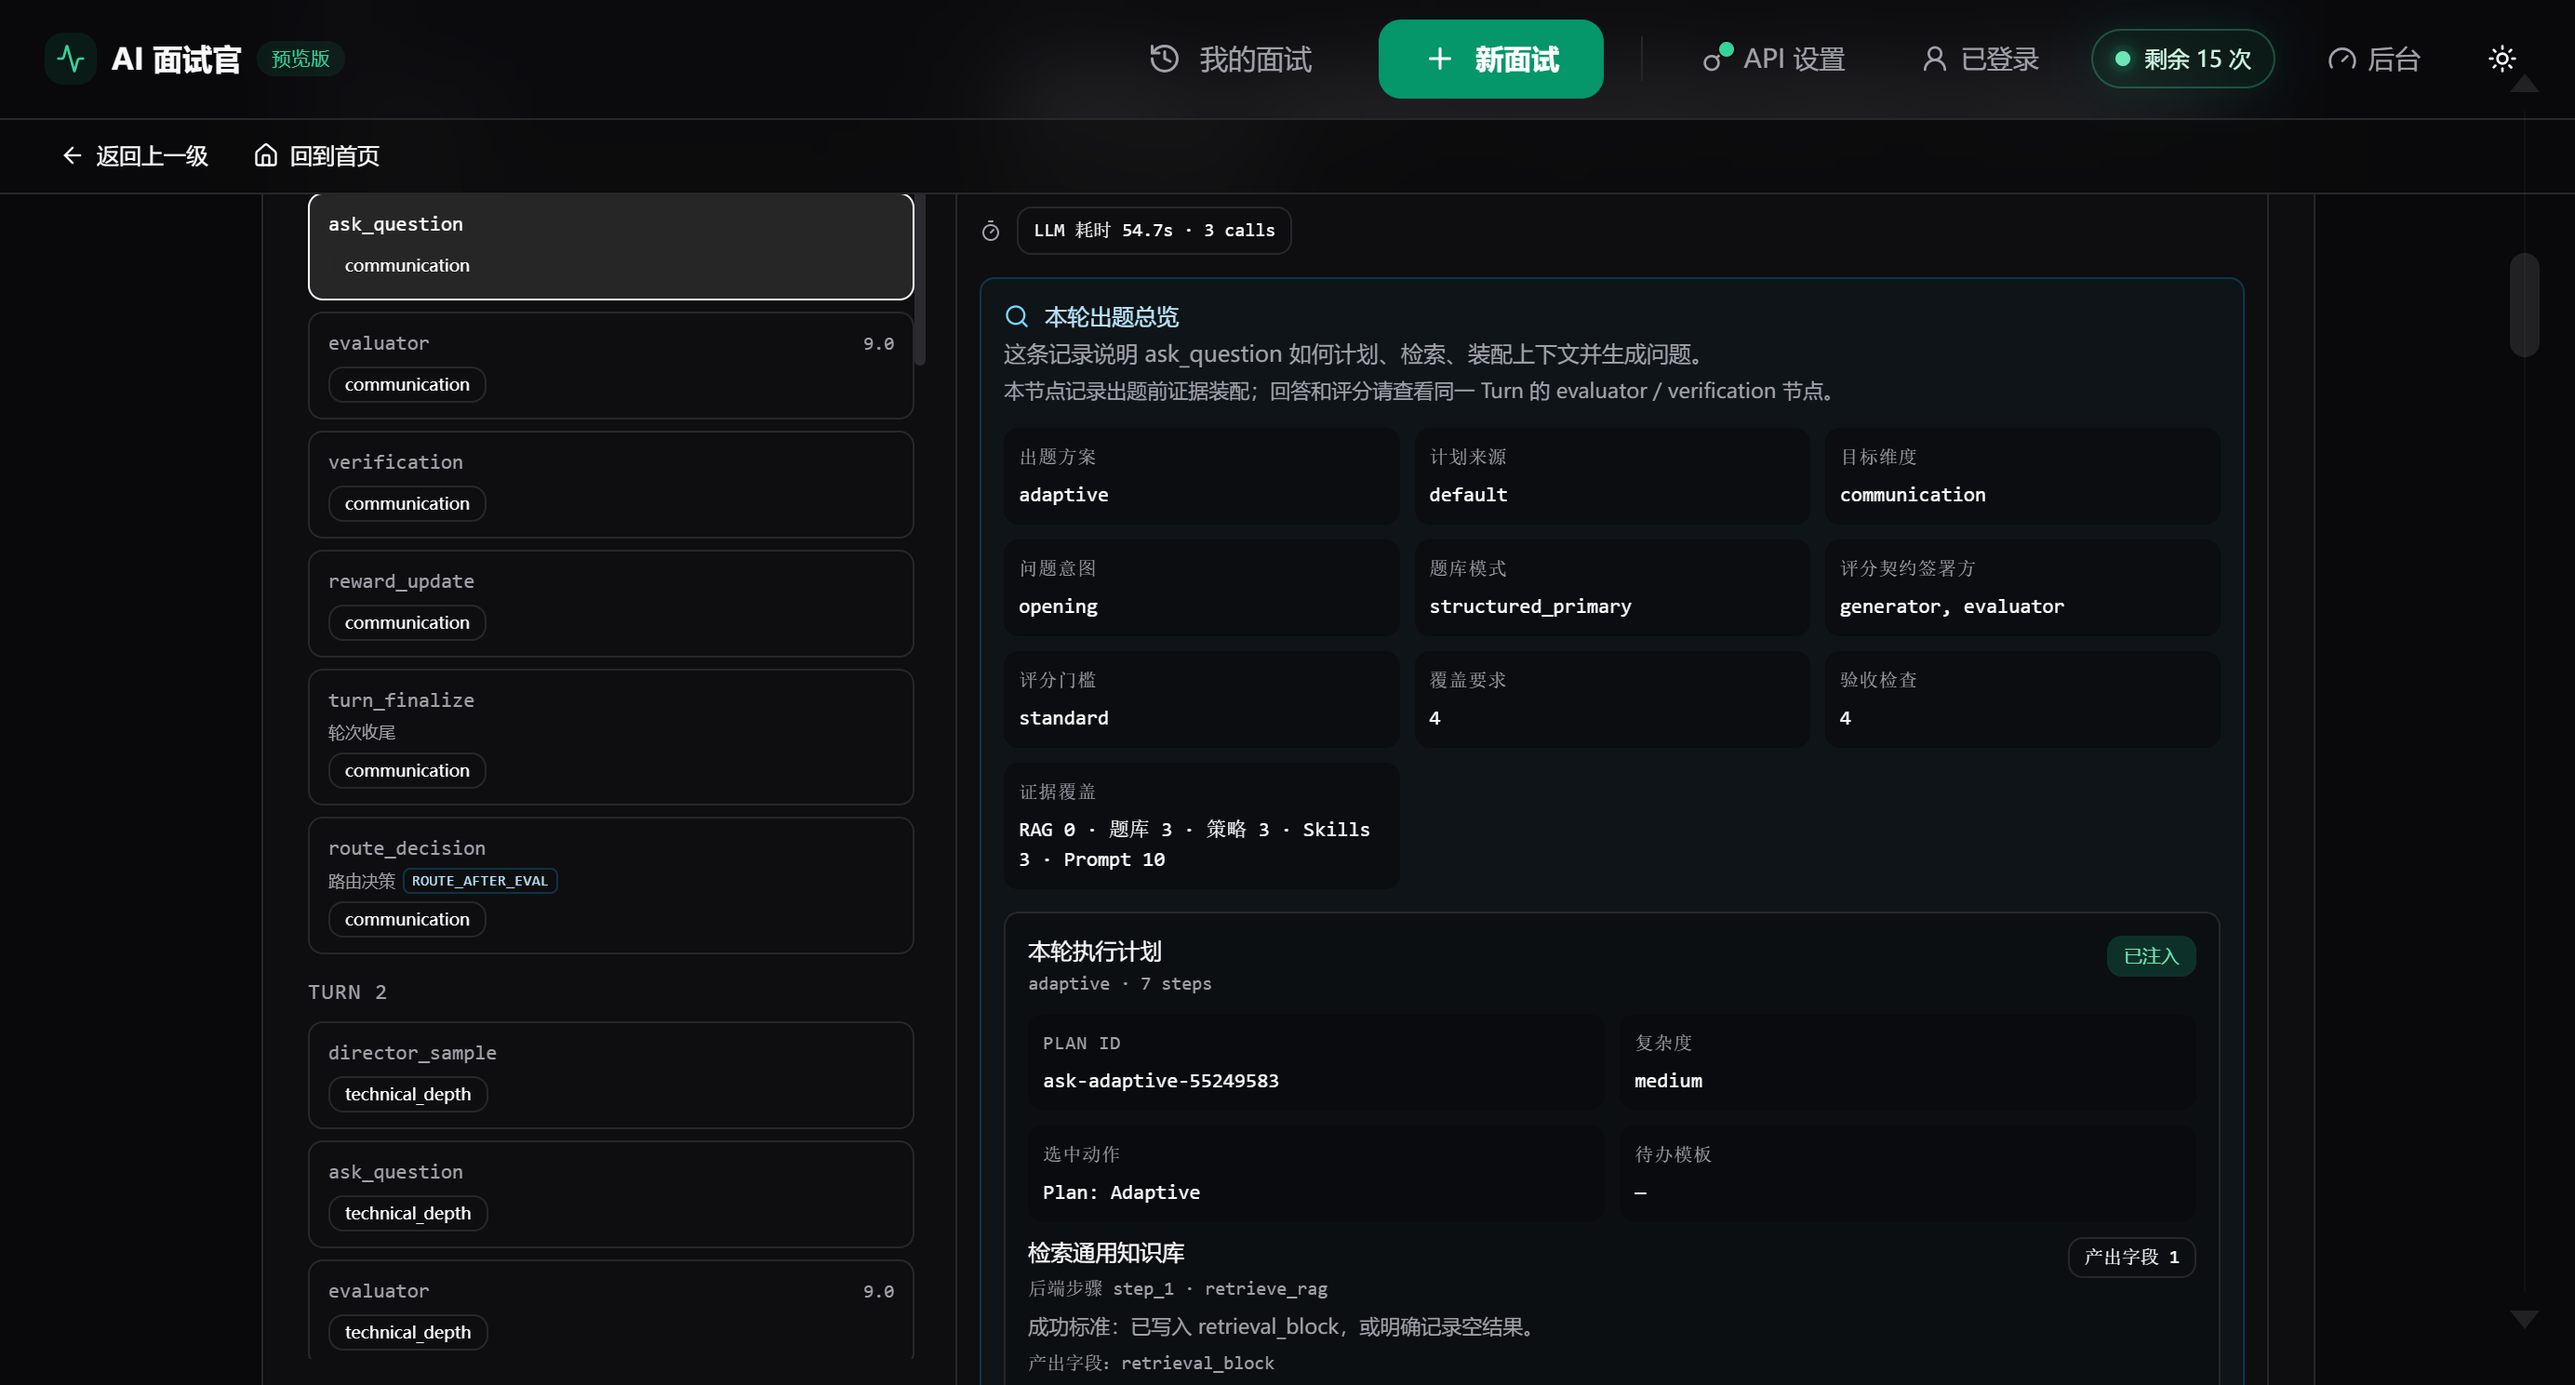
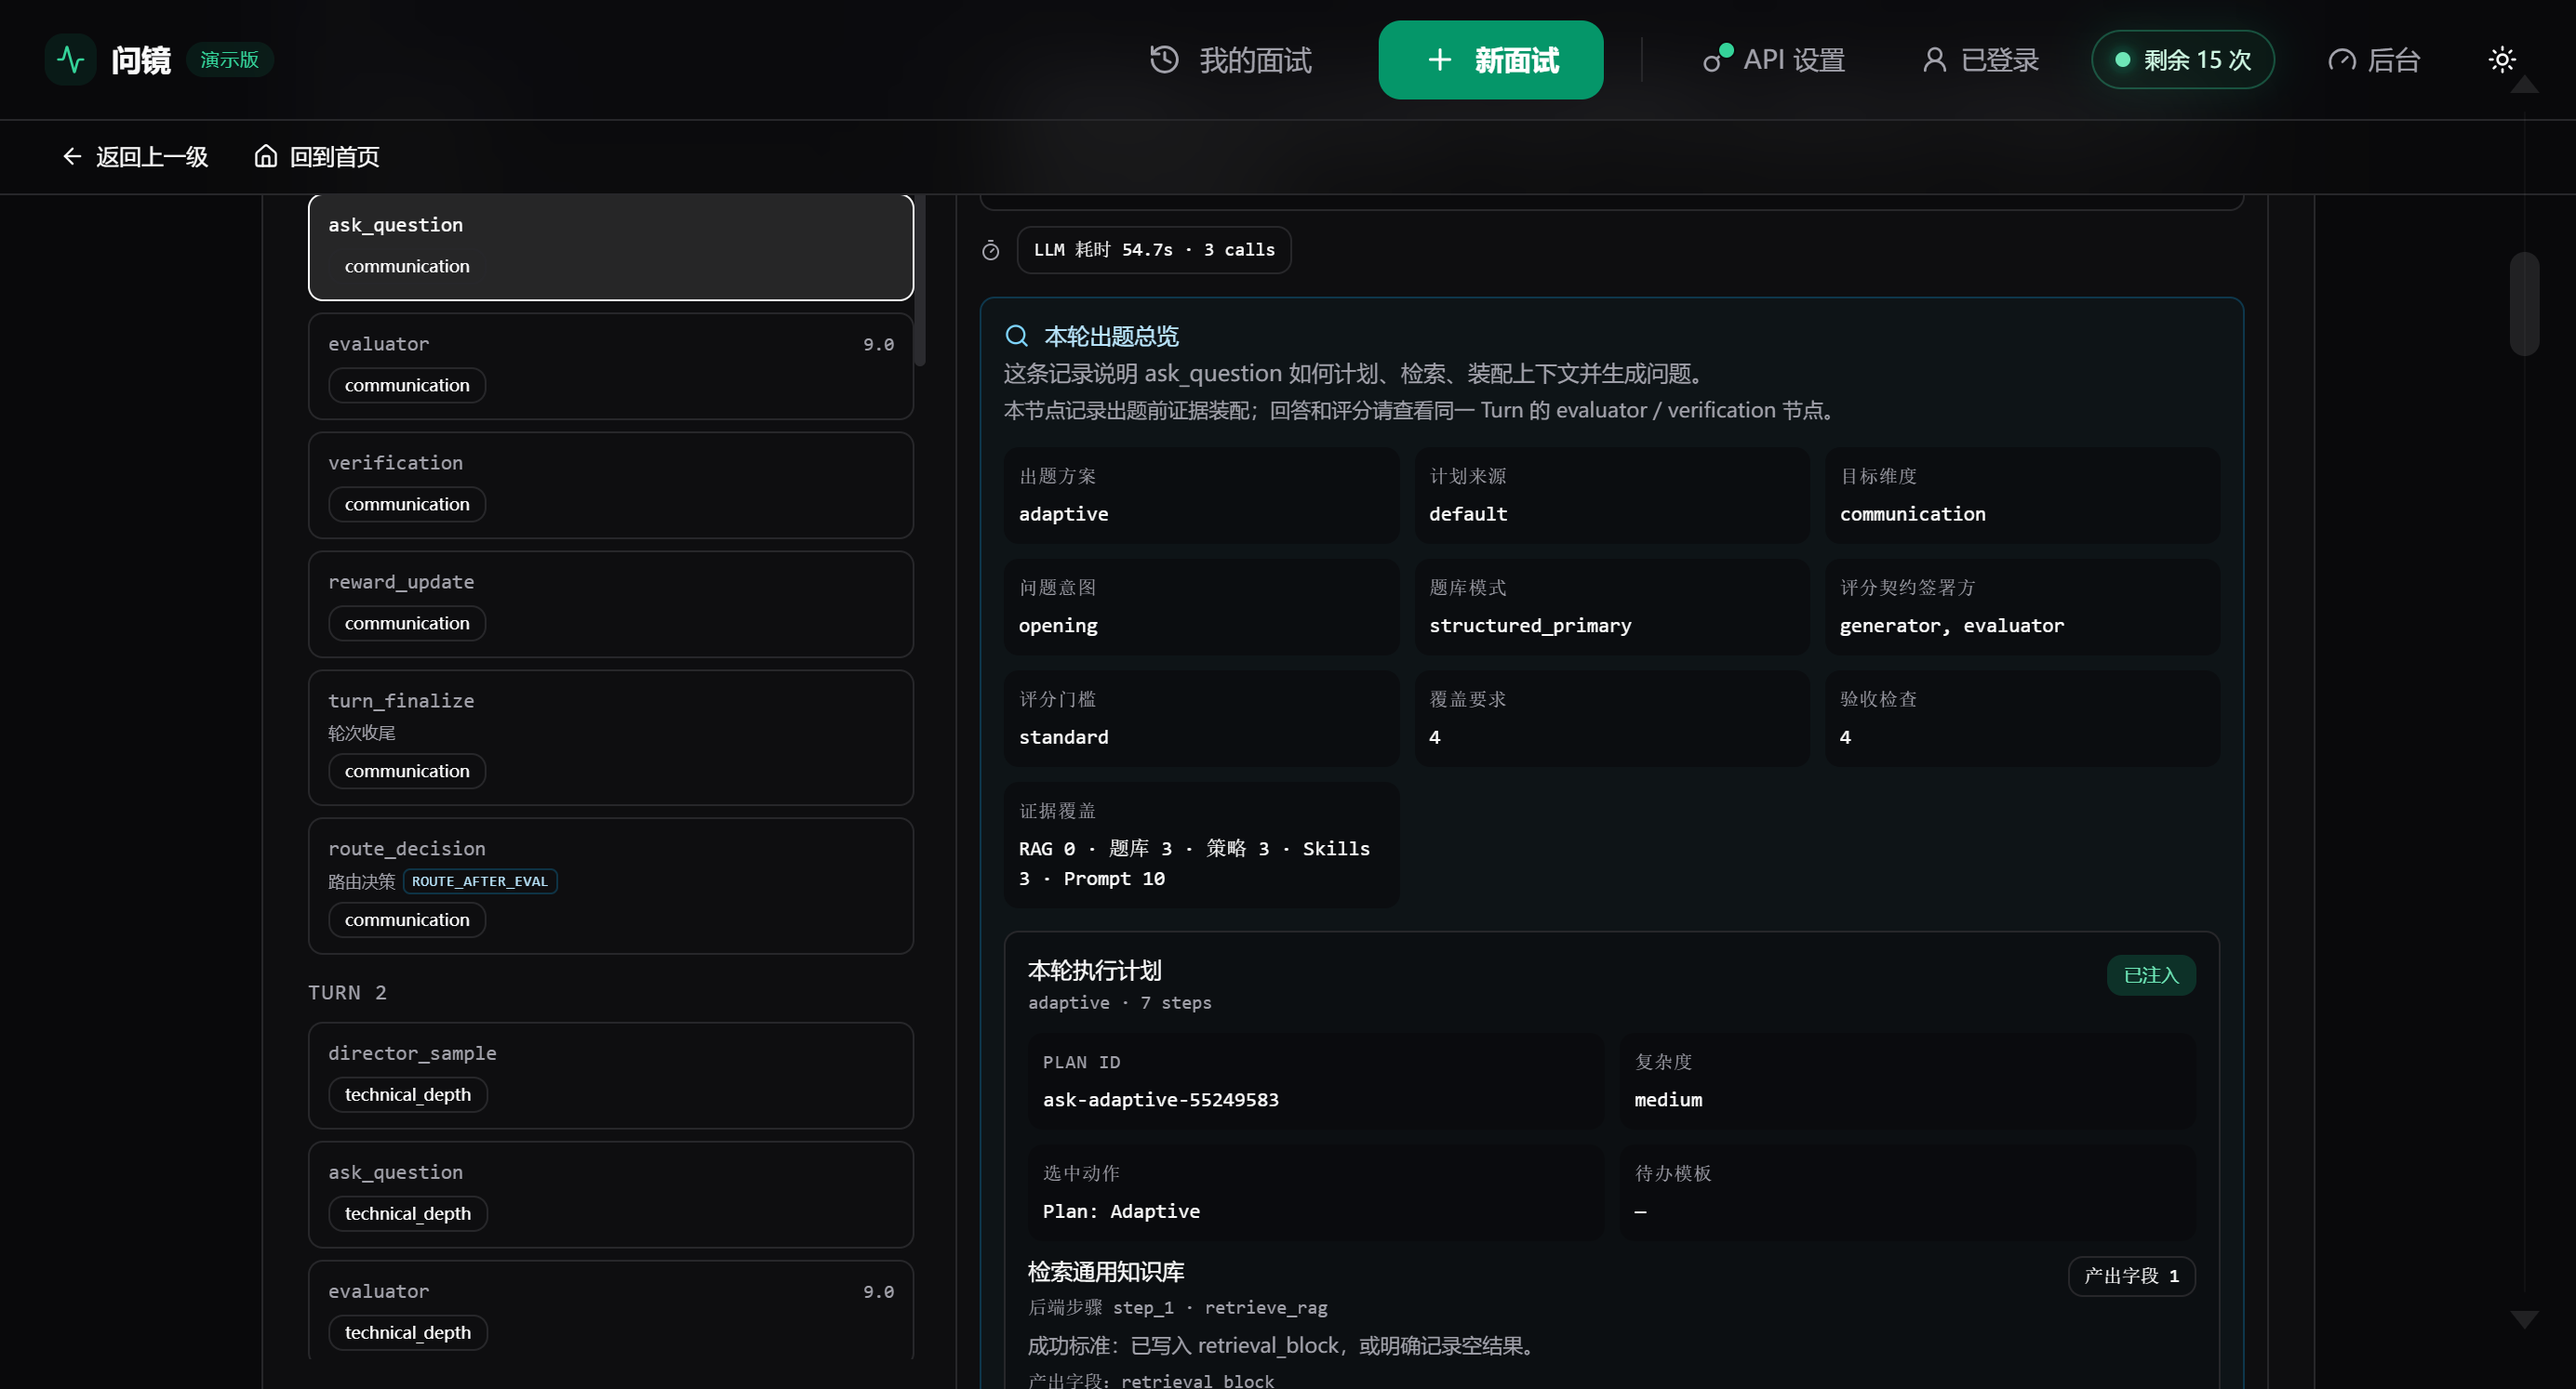
docs: refresh GitHub project entry branding

diff --git a/README.md b/README.md
@@ -1,12 +1,12 @@
-# Agentic Interviewer
+# 问镜（Agentic Interviewer）
 
-> 一个 production-aware 的 AI 模拟面试系统：核心是基于 LangGraph 的多智能体面试 workflow，外层再补齐账号归属、平台额度、BYOK、Admin 后台和上线预检等产品控制面。
+> 基于 LangGraph 的 AI 模拟面试与复盘训练系统：核心是可恢复、可观测、可复盘的多智能体面试 workflow，外层再补齐账号归属、平台额度、BYOK、Admin 后台和上线预检等产品控制面。
 
-Agentic Interviewer 不是普通聊天机器人，也不是“套一层简历问题 prompt”的 Demo。它围绕一次完整模拟面试构建真实 workflow：采集上下文、生成问题、等待用户回答、评分、验证、奖励回填、决定追问或下一题，最后生成报告和复练计划。
+问镜（Agentic Interviewer）不是普通聊天机器人，也不是“套一层简历问题 prompt”的 Demo。它围绕一次完整模拟面试构建真实 workflow：采集上下文、生成问题、等待用户回答、评分、验证、奖励回填、决定追问或下一题，最后生成报告和复练计划。
 
 项目的重点是展示：**如何把 agentic workflow 从一次 LLM 调用，工程化成可恢复、可观测、可复盘、可运营的产品系统。**
 
-[![Agentic Interviewer Trace Explorer demo preview](./ai-interviewer/docs/assets/demo-cover.png)](https://www.bilibili.com/video/BV1Ey7Z6gEcA/)
+[![问镜（Agentic Interviewer）Trace Explorer demo preview](./ai-interviewer/docs/assets/demo-cover.png)](https://www.bilibili.com/video/BV1Ey7Z6gEcA/)
 
 [观看 5 分钟演示视频（Bilibili）](https://www.bilibili.com/video/BV1Ey7Z6gEcA/) · [GitHub Release 下载](https://github.com/liuhan-agent/Agentic_Interviewer/releases/tag/demo-video-2026-06-04)
 
